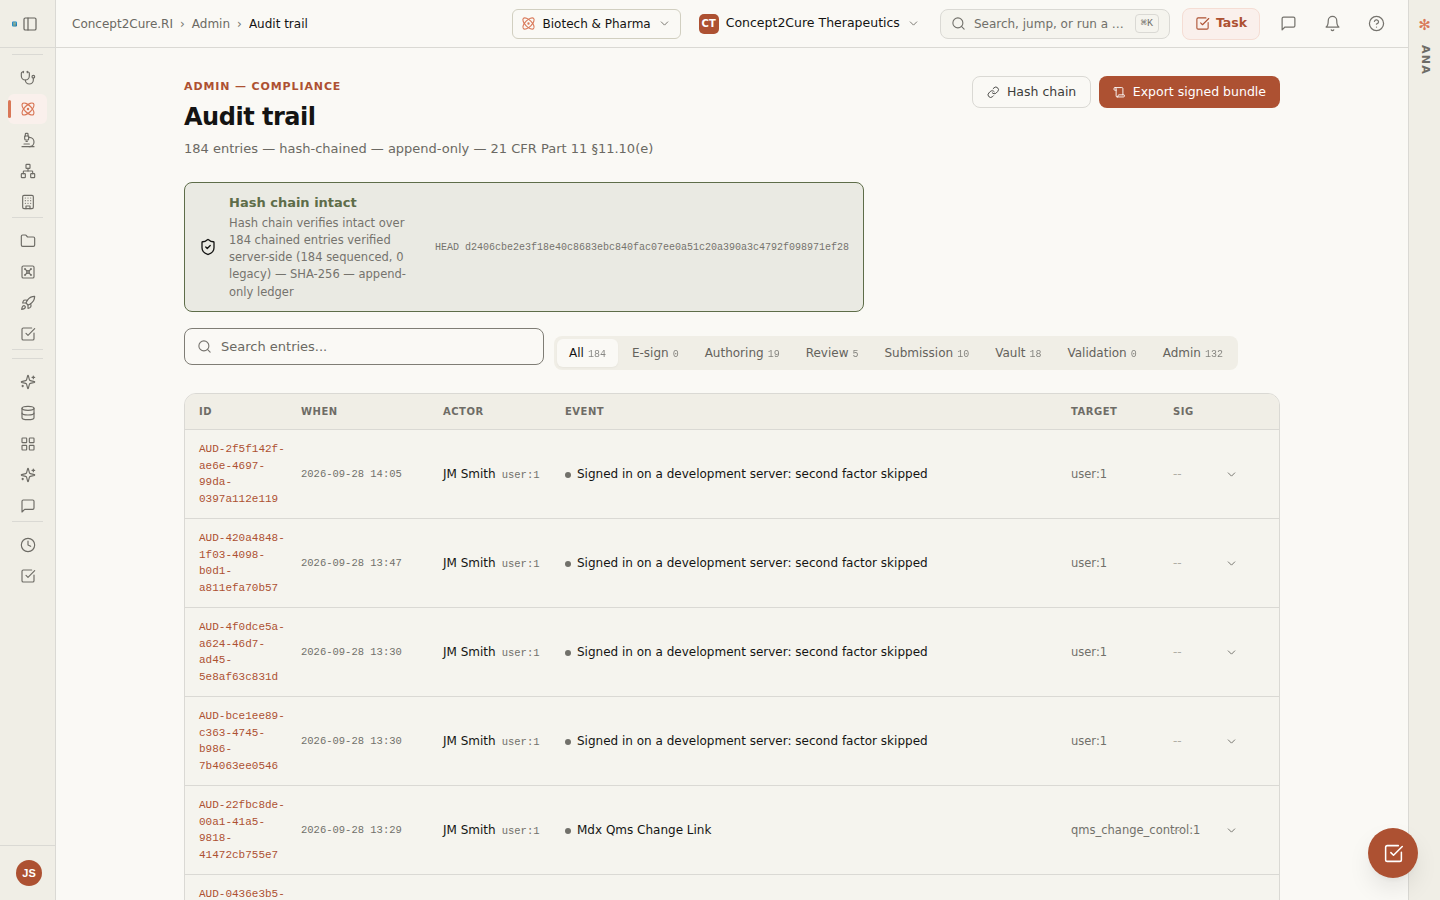
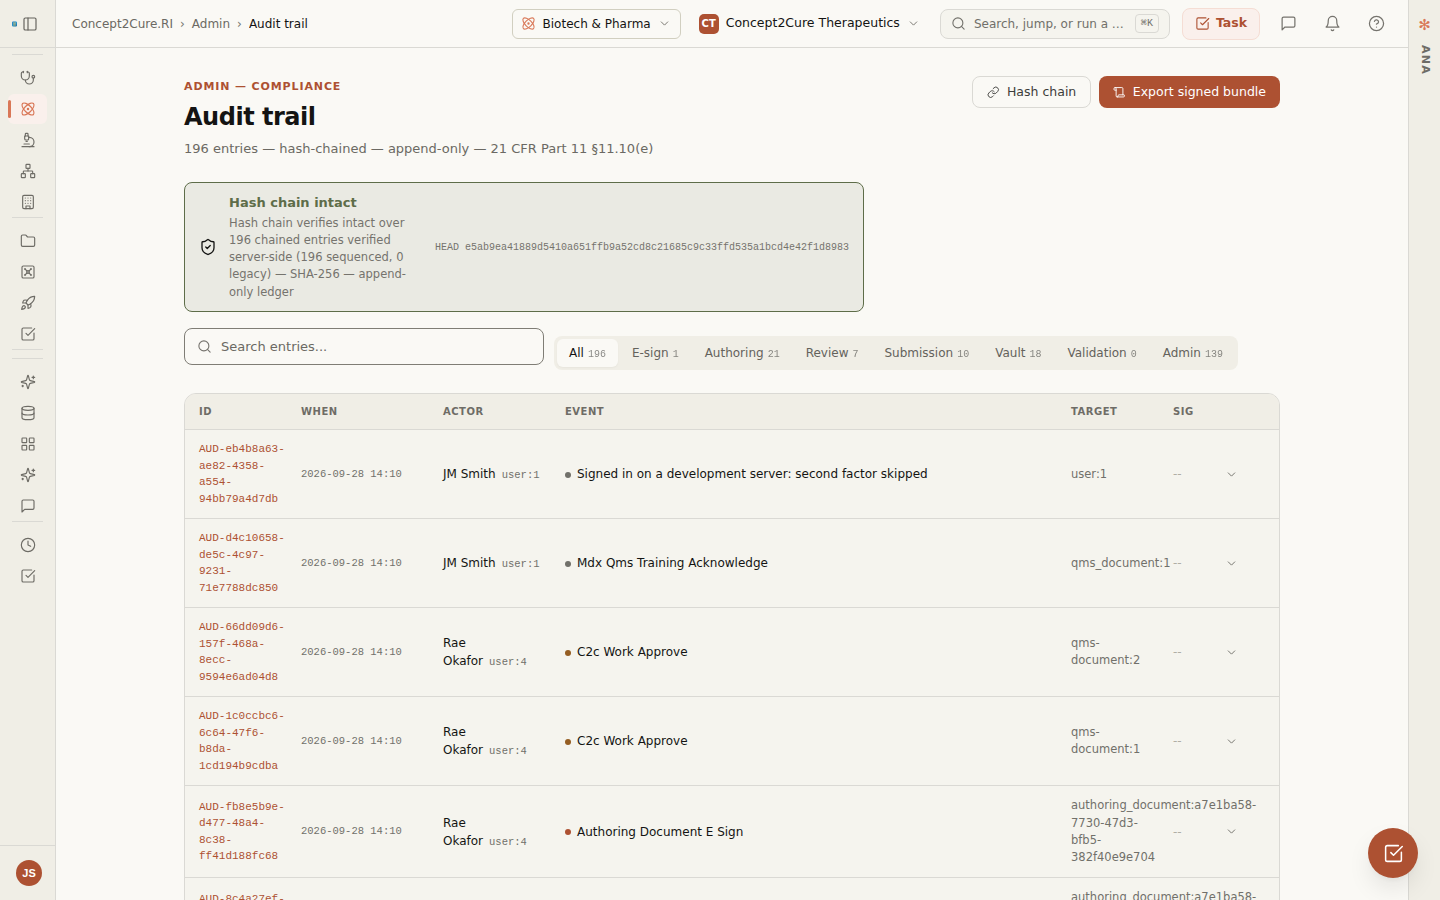
Evidence (D2): the demo IND with two people — a second account through user administration, the synopsis e-signed, two SOPs effective
Rae Okafor added by the admin through POST /api/tenant-users, her password
set through the setup link's token; the pack re-run with her as second
signer. The synopsis is e-signed (REVIEWER, covering freeze v1.0), SOP-001
and SOP-002 are approved by electronic signature and effective, a training
acknowledgement is recorded, and 196 audit entries verify intact. Two open
findings recorded with their causes (SOP approval audit rows carry no
meaning or signature link; raw audit targets — finding 53 corrected to
partly open). The manifest is this run's.

Claude-Session: https://claude.ai/code/session_01PwLFr89hq8E7ZHUcAH96HK

diff --git a/docs/evidence/W1/2026-09-28-populated/README.md b/docs/evidence/W1/2026-09-28-populated/README.md
@@ -49,8 +49,47 @@ The ten screenshots here are the main surfaces on `48337a429`.
 | The demo seed sent every review request with no reviewer (it read `/api/auth/me` in an envelope the route no longer uses), and stopped before QMS on the out-of-catalog orchestration step. | Seed fixed; orchestration recorded as not executed with its reason. |
 | Two dispatch-readiness test harnesses failed on `concept2cure-v2` (a mock missing an export added upstream). | Mocks take the real pure function. |
 
+## With a second person: the governed steps
+
+A second account was created **through user administration**, the way a customer
+admin adds a colleague: `POST /api/tenant-users` as the admin (Rae Okafor, Head
+of Quality, organisation admin), which returned the password-setup link (no mail
+server on this installation, so the product hands the admin the link to deliver);
+the password was then set through that link's token (`POST
+/api/auth/reset-password`), and she signed in. The pack was re-run with her as
+the second signer (`OQ_SIGNER_EMAIL` / `OQ_SIGNER_PASSWORD`, held in memory only;
+the manifest carries no password).
+
+| Governed step | Result |
+|---|---|
+| Protocol synopsis C2C-101-201 | Frozen v1.0, then **e-signed by Rae Okafor as REVIEWER**, the signature covering freeze v1.0 |
+| SOP-001 Document Control, SOP-002 Change Control | **Approved by her electronic signature → effective** |
+| Read-and-understood training on SOP-001 v1.0 | Acknowledged; the QMS tile now measures **17%** (one acknowledgement across two effective SOPs and the roster) |
+| Audit trail | **196 chained entries, verified intact server-side**; 1 e-sign, 7 review, 10 submission, 18 vault, 21 authoring |
+
+`quality.png`, `audit-trail.png` and `part11-console.png` are this state. The
+Part 11 console verifies the chain the platform writes ("INTACT · 196 entries
+verified") where on an empty organisation it had said "Integrity valid" over
+zero entries.
+
+**Found with signatures in it:**
+
+- Fixed: three "ss11.50" / "ss11.70" citations in the audit-trail detail and in
+  Setup; the copy test now refuses any "ss11.<n>".
+- **Open:** an SOP approval is an electronic signature, but its audit-trail row
+  reads "C2c Work Approve" with no meaning and no link to the signature. The
+  generic governed-action writer (`recordGovernedAction`,
+  `server/routes/c2c/actions.ts`) keeps the payload — meaning and signature
+  included — in `c2c_ana_actions`, linked by `ana_action_id`, and leaves the
+  audit row's values empty, so the ledger has nothing to show. The authoring
+  e-signature's row, written elsewhere, carries its meaning. The fix belongs in
+  that writer or in the ledger read (a join on `ana_action_id`); it is core audit
+  code other sessions are changing, so it is recorded here rather than made in
+  passing.
+- **Open:** audit-trail targets are raw ids (`qms-document:2`,
+  `authoring_document:a7e1ba58-…`) — the third clause of finding 53.
+
 ## Owed
 
-- The same run with a second credentialed signer, so the frozen synopsis is
-  e-signed and the SOPs are approved and effective.
-- On staging with the production image (D1).
+- On staging with the production image (D1), where the second factor is
+  enforced at sign-in and at signing.

diff --git a/docs/evidence/W1/2026-09-23-surface-truth/README.md b/docs/evidence/W1/2026-09-23-surface-truth/README.md
@@ -83,7 +83,7 @@ identically on the upstream source and is not this change's.
 | 42 (high), 6, 7, 9 | AnA command | Fixed, `cac23587b` — zero programs is `200 { data: null }` and the empty state; failures say what the server answered; 4 fail → 9/9 pass |
 | 85 | Onboarding | Fixed, `4d217e473` — names the organisation it changes and starts from its recorded name and industry; 4/4 fail → pass |
 | 122, 123 | Setup client type | Fixed, `f04feac2c` — a pending change saved under the page's reason; the route now requires a reason and records it; 7 fail → pass |
-| 47, 53, 54, 129 | Audit trail headers and copy, Apps eyebrow, breadcrumb | Fixed, `04e784bc2` — one meaning for `.ct-head`; §11.10(e); 5/5 fail → pass |
+| 47, 53, 54, 129 | Audit trail headers and copy, Apps eyebrow, breadcrumb | Fixed, `04e784bc2` — one meaning for `.ct-head`; §11.10(e); 5/5 fail → pass. **53 is partly open:** its raw targets (`user:1`) remain; see `../2026-09-28-populated/`. |
 | 43 (high) | Master licensing owner identity | **Deferred — a security decision.** Making the console honour the hard-coded `DEFAULT_MASTER_ADMIN_EMAILS` would admit whoever self-signs-up that address first (signup does not verify email) to Master Administration. Proposal: `resolveMasterAdmin` true only when `resolvePlatformAdmin` is; delete the hard-coded default; add email verification to signup before any email-keyed grant is honoured. |
 | 19 (high) | Identity console for an org admin | **Deferred — a product decision.** Every SCIM route is platform-admin only and takes an organisation id from the body; Setup sends org admins to the console to manage "their" SCIM. The console now says honestly that a platform administrator is required. Letting an org admin manage their own SCIM needs org-scoped routes: new capability, not a fix. |
 
